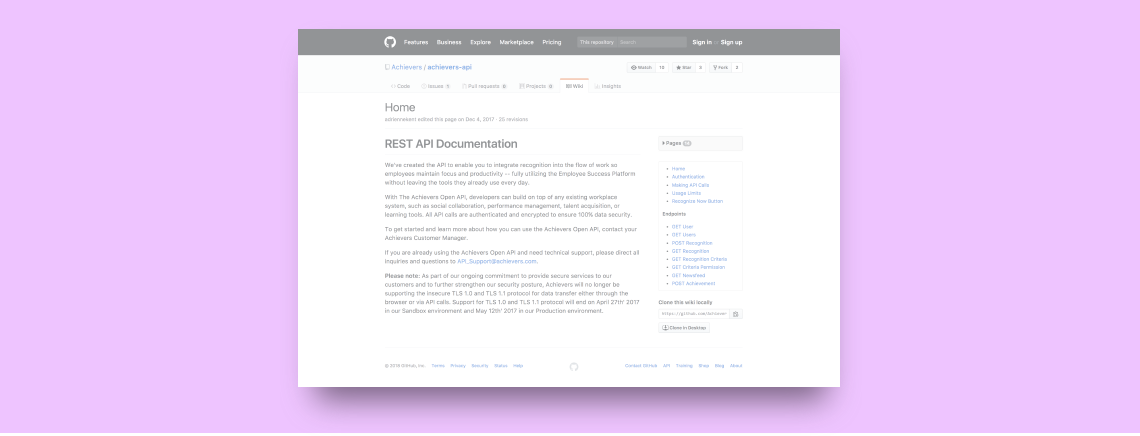
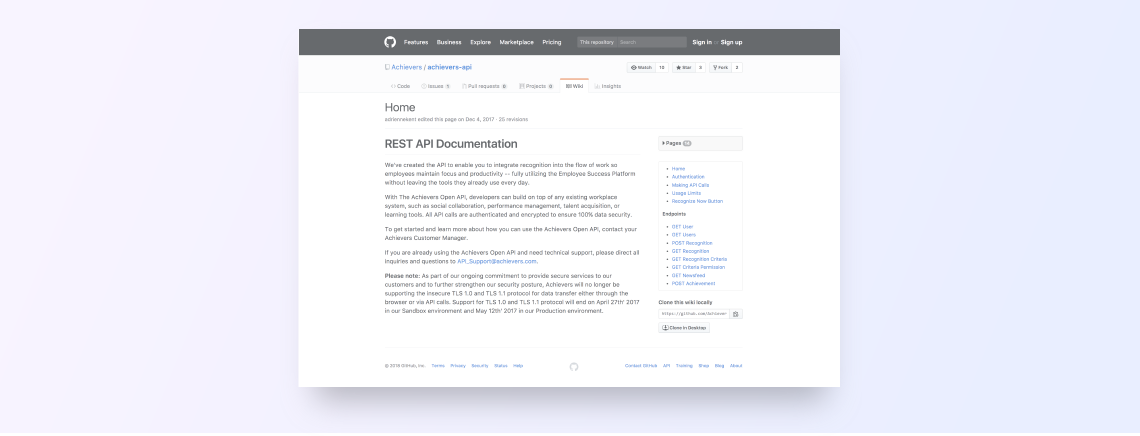
API Project Update
API images updated

diff --git a/api.html b/api.html
@@ -126,7 +126,12 @@
       <!-- Example row of columns -->
       <div class="row">
         <div class="col-md-12">
-          <img class="thumbnail" src="Images/Portfolio/api/api-final2x.png">
+          <img class="thumbnail" src="Images/Portfolio/api/api-final-mobile.png">
+        </div>
+      </div>
+      <div class="row">
+        <div class="col-md-12">
+          <img class="thumbnail" src="Images/Portfolio/api/api-final-ipad.png">
         </div>
       </div>
       <div class='row'>

diff --git a/index.html b/index.html
@@ -130,7 +130,7 @@
         </div>
         <div class="col-md-8">
           <a href="api.html">
-          <img class="thumbnail" src="Images/Portfolio/api/api-final.png"></a>
+          <img class="thumbnail" src="Images/Portfolio/api/api-final-mobile.png"></a>
         </div>
       </div>
     </div>

diff --git a/style.css b/style.css
@@ -32,7 +32,7 @@ a:hover {
 
 p {
 	font-weight: 400;
-/*	font-size: 16px;*/
+    line-height: 1.8em;
 }
 
 /*MENU BAR STUFF*/
